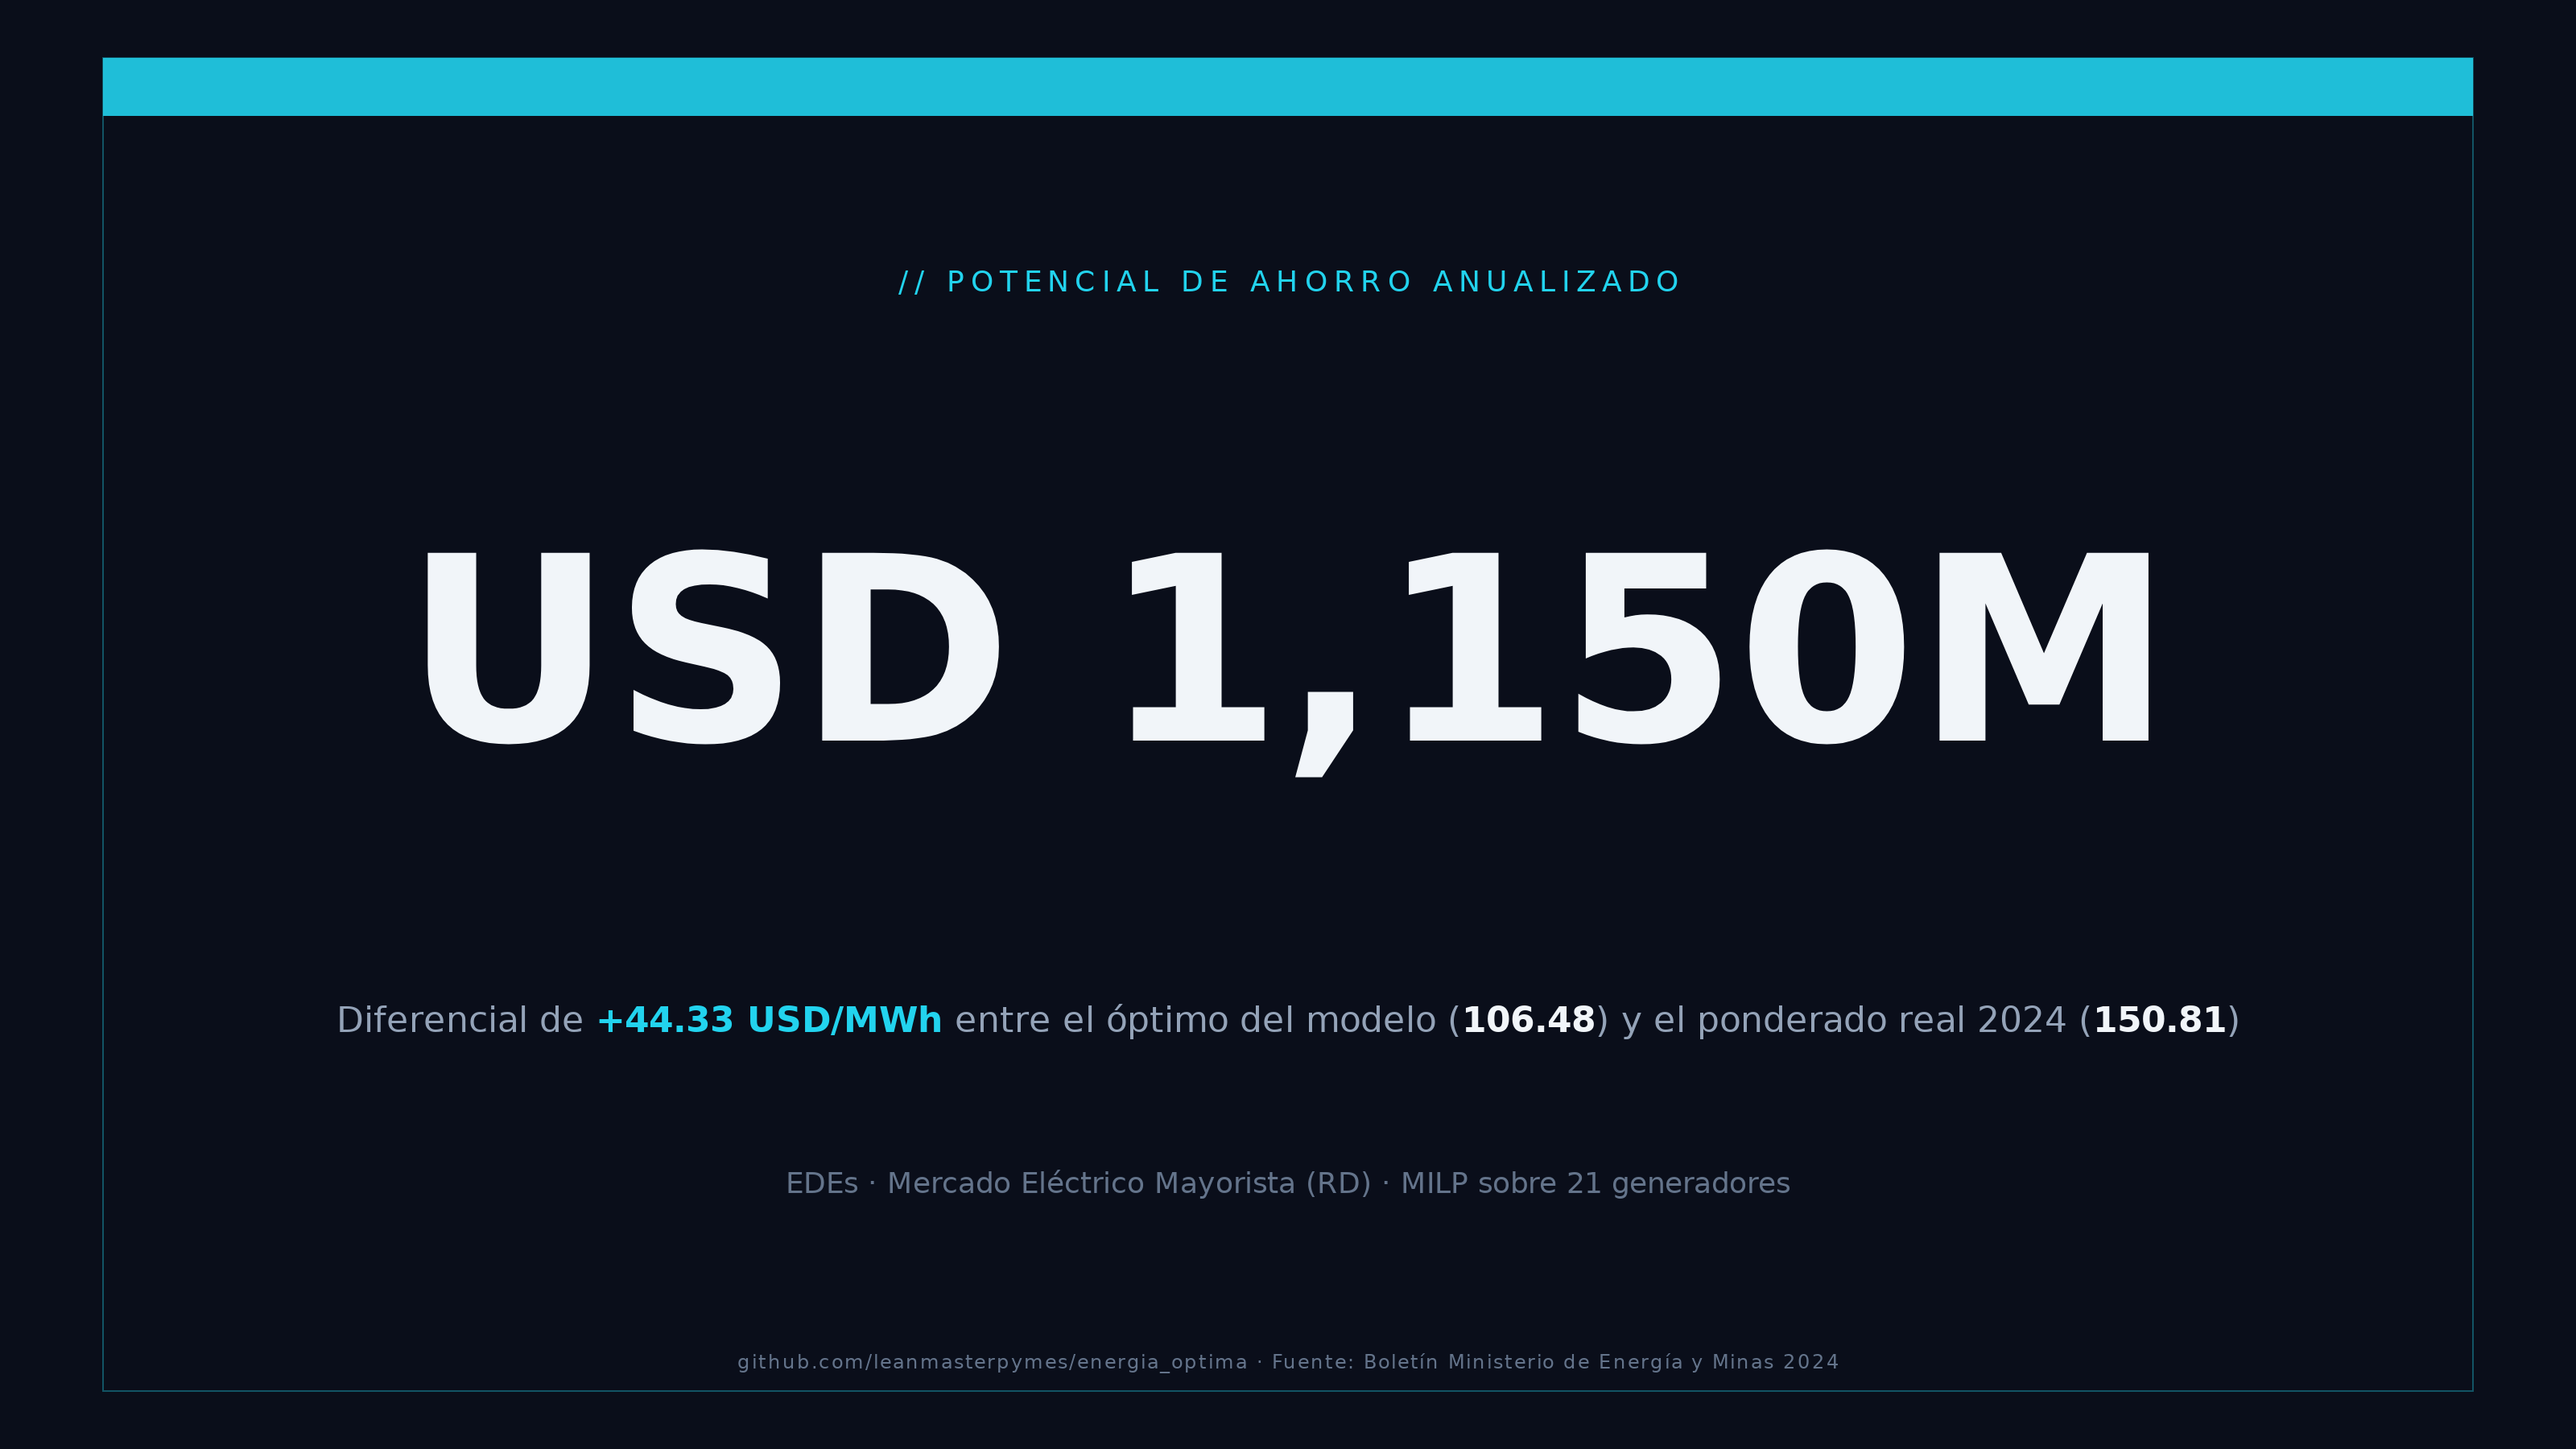
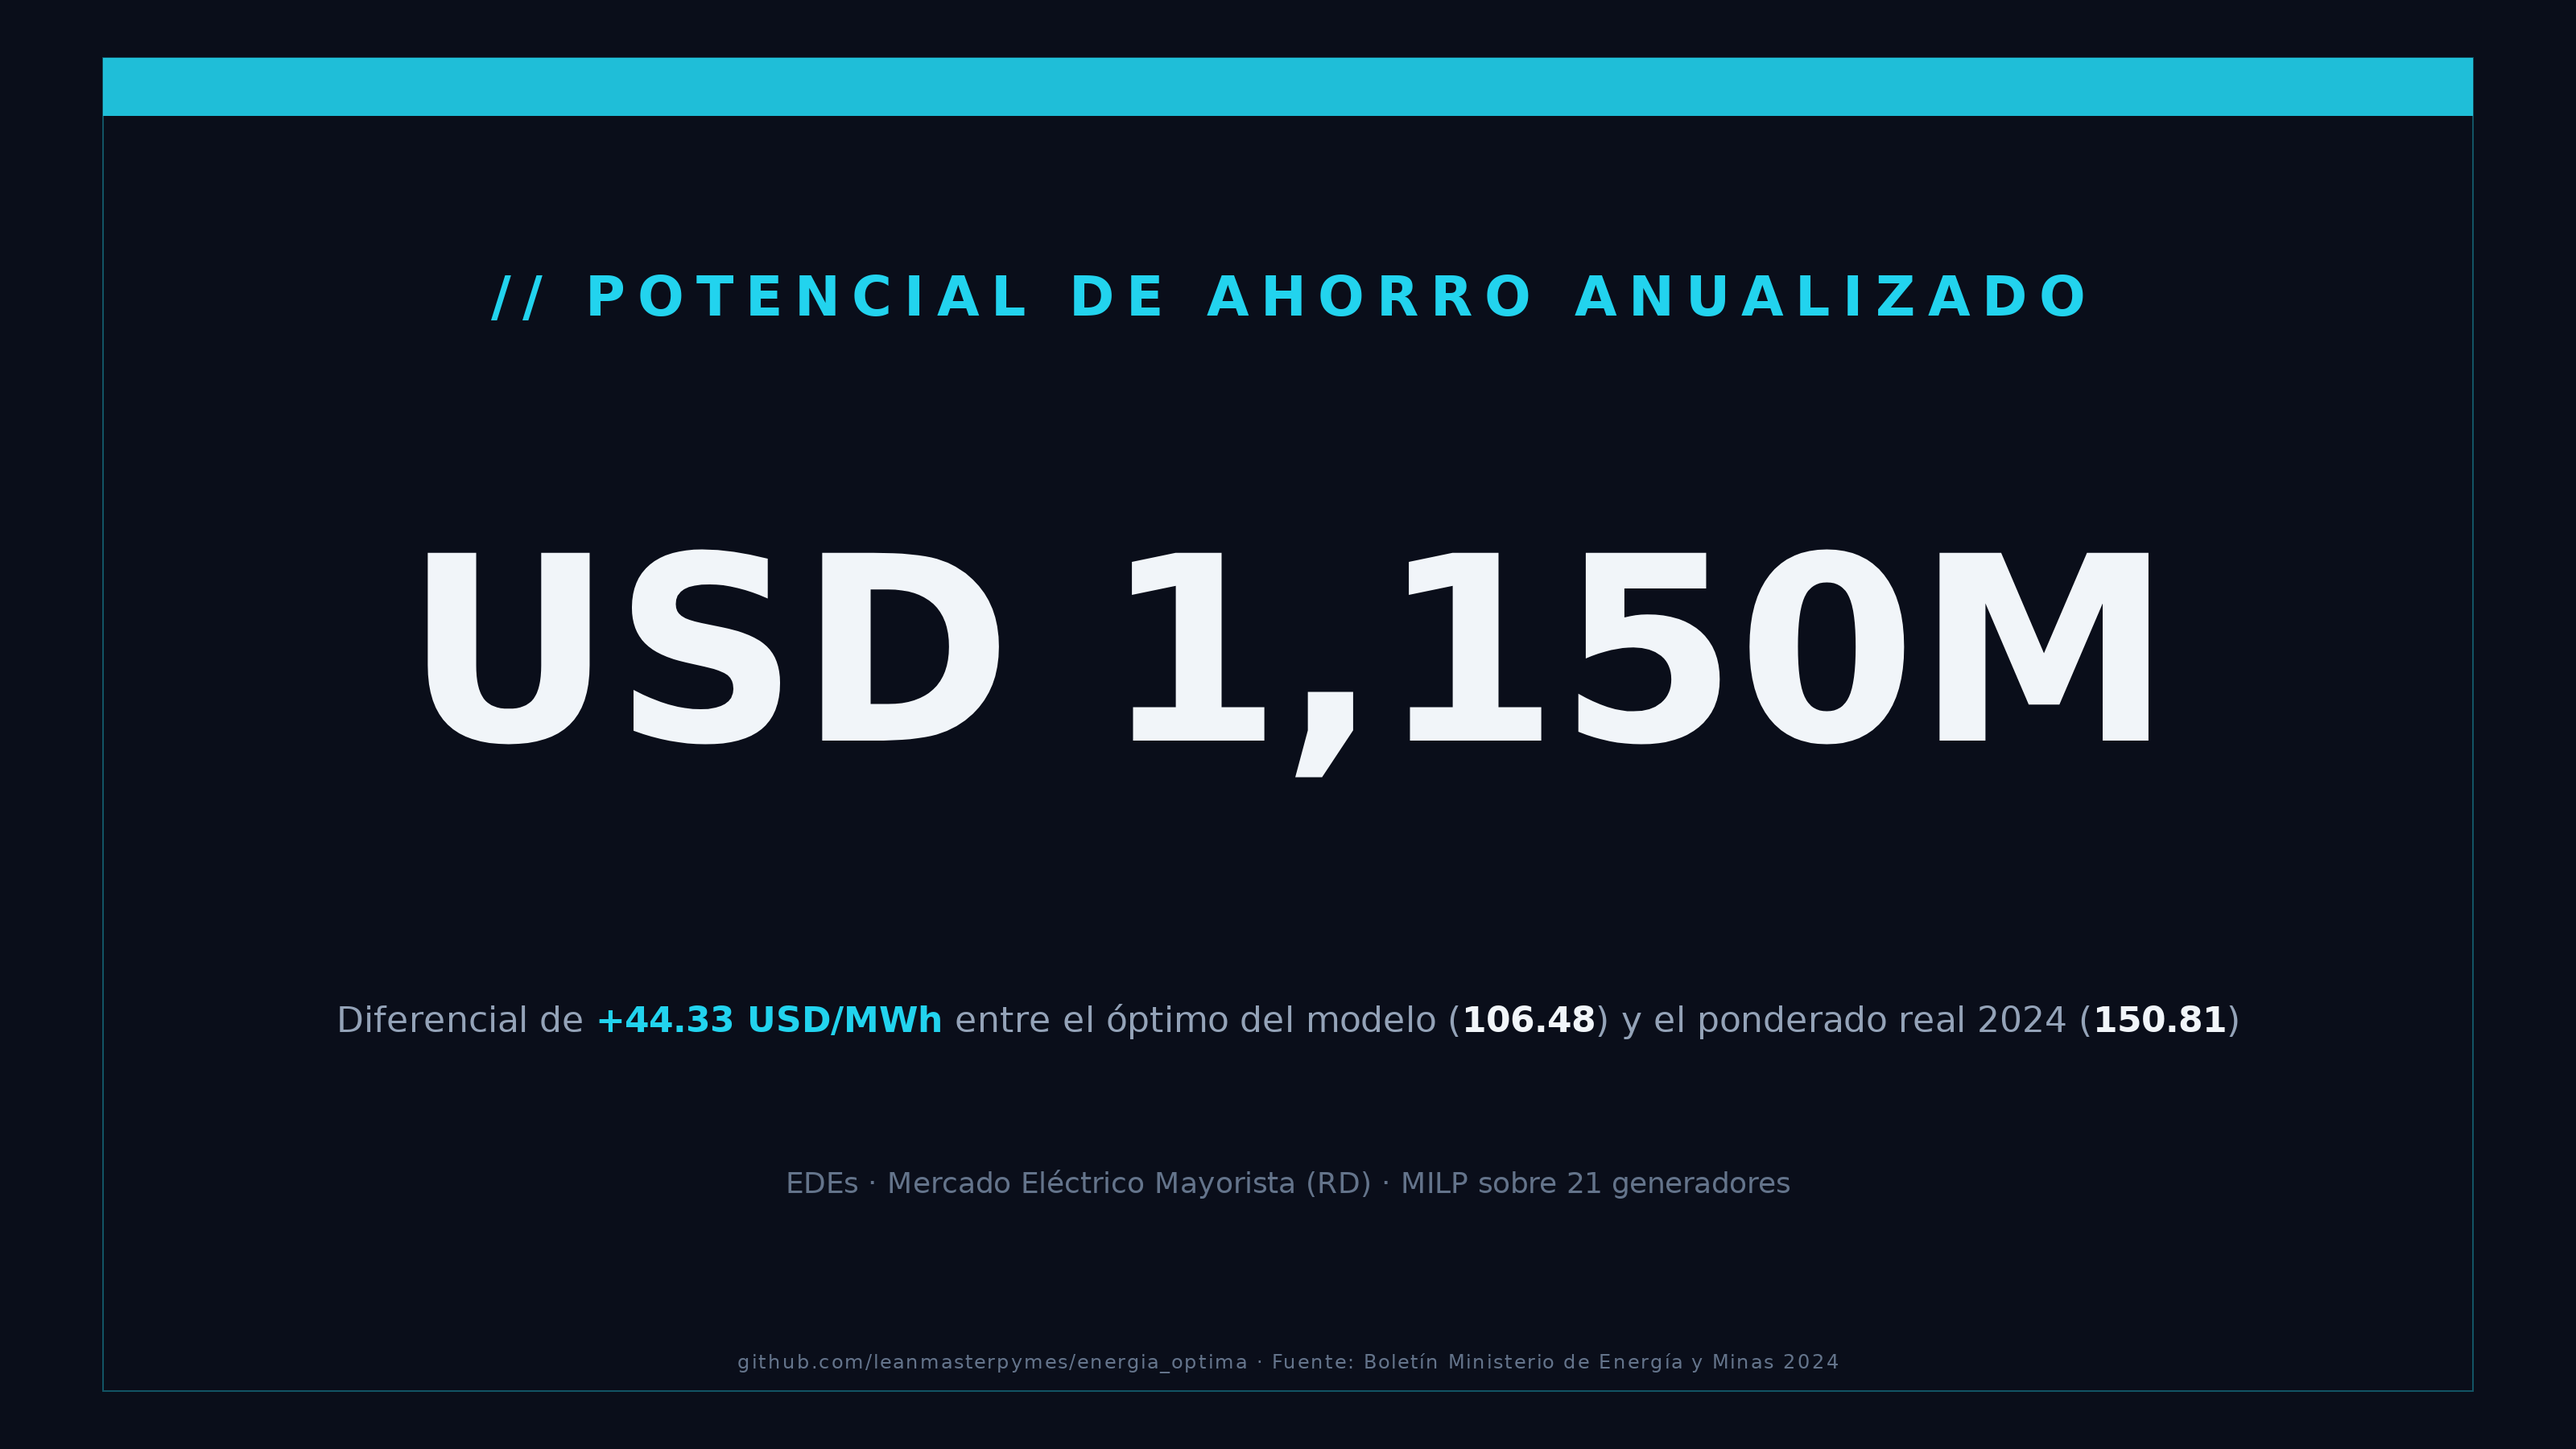
dashboard: alinear etiquetas con artículo y preparar deploy Streamlit Cloud
- streamlit_app.py: etiqueta hero "compra de las EDEs" → "demanda del Mercado Eléctrico Mayorista" (coherente con nota metodológica del artículo)
- app/requirements.txt: dependencias mínimas (streamlit, plotly, pandas, numpy, pulp) para build limpio en Streamlit Cloud
- export_figures.py: subtítulo del hero 18px → 34px para mayor protagonismo
- 01_hero_ahorro.png: regenerada

Changed region(s): [[0.1875, 0.1867, 0.8125, 0.2178]]

diff --git a/src/export_figures.py b/src/export_figures.py
@@ -123,7 +123,7 @@ def fig_hero(ahorro_anual_m: float, p_opt: float, p_real: float) -> go.Figure:
     fig.add_annotation(
         text=(
             f"<span style='color:{ACCENT};font-family:JetBrains Mono;"
-            f"font-size:18px;letter-spacing:0.22em'>"
+            f"font-size:34px;font-weight:600;letter-spacing:0.22em'>"
             "// POTENCIAL DE AHORRO ANUALIZADO</span>"
         ),
         xref="paper", yref="paper", x=0.5, y=0.82,

diff --git a/app/streamlit_app.py b/app/streamlit_app.py
@@ -363,7 +363,7 @@ insight_html = (
     f'el óptimo del modelo (<b>{p_opt:.2f}</b>) y el ponderado real 2024 '
     f'reportado por el Ministerio de Energía y Minas (<b>{PRECIO_REAL_2024:.2f}</b>). '
     f'Proyectado sobre <span class="num">{twh_anual:,.1f} TWh/año</span> '
-    'de compra de las EDEs.'
+    'de demanda del Mercado Eléctrico Mayorista.'
     '</div>'
     '</div>'
 )
